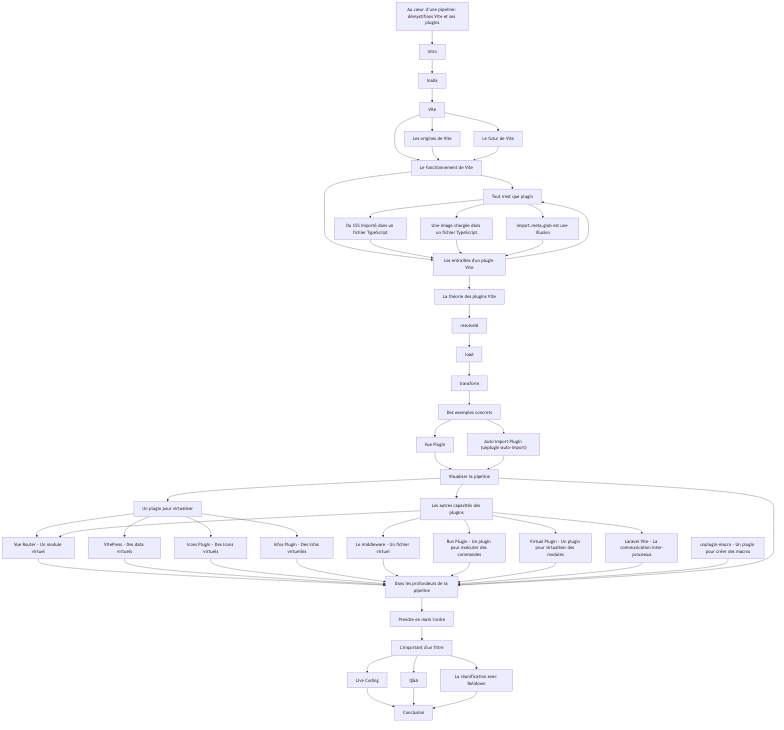
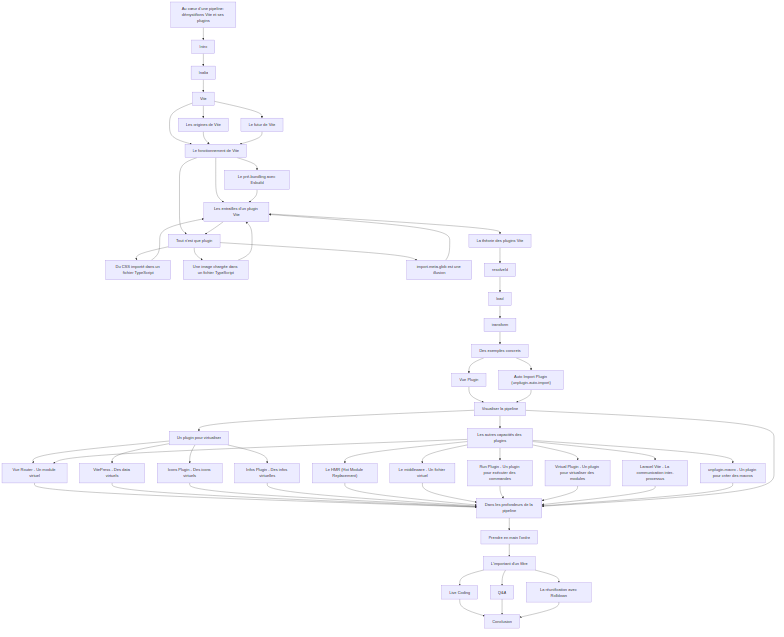
content: improve slides

diff --git a/2026-04-15/src/slides.md b/2026-04-15/src/slides.md
@@ -93,7 +93,7 @@ choices:
 
 <!--
 
-Choix:
+d'où ça vient, reprendre le contenu du documentaire de Vite, et les origines depuis le serveur pour Vue.js
 
 -->
 
@@ -101,11 +101,18 @@ Choix:
 name: Le fonctionnement de Vite
 timing: 0
 choices:
+  - Le pré-bundling avec Esbuild
   - Tout n'est que plugin
   - Les entrailles d'un plugin Vite
 ---
 
 <!--
+
+simple server web, faire un schéma avec le UA qui fait une requête, le serveur qui la reçoit, la traite et qui répond
+(faire un schéma dynamique)
+
+reprendre le système de chat IA ? en mode, on vit dans une époque de fou
+https://chatgpt.com/share/6989c859-c310-8011-9006-dc074a544fb4
 
 -->
 
@@ -117,6 +124,8 @@ choices:
 ---
 
 <!--
+
+aspect stratégique avec VoidZero
 
 -->
 
@@ -131,6 +140,8 @@ choices:
 
 <!--
 
+on l'a vu, le coeur est minimal, pour une raison simple, tout passe par des plugins, même les fonctionnalités de base (pourquoi ? parce que ça t'assure que ton système de plugin est le bon, avec suffisamment de puissance et de liberté, tu n'as pas plus d'accès qu'un third party plugin)
+
 -->
 
 ---
@@ -140,6 +151,18 @@ choices:
   - Les entrailles d'un plugin Vite
 ---
 
+<!--
+
+import './style.css'
+
+ça ne choque plus personne mais dans la vraie vie, ça ne fonctionne pas
+
+reprendre le schéma dynamique du fonctionnement de Vite et montrer ce qu'il se passe...
+
+montrer du pseudo code du plugin
+
+ -->
+
 ---
 name: Une image chargée dans un fichier TypeScript
 timing: 0
@@ -147,12 +170,37 @@ choices:
   - Les entrailles d'un plugin Vite
 ---
 
+<!--
+
+import img from './image.png'
+
+ça ne choque plus personne mais dans la vraie vie, ça ne fonctionne pas
+
+reprendre le schéma dynamique du fonctionnement de Vite et montrer ce qu'il se passe...
+montrer les différentes options parce qu'il peut automatiser
+
+ -->
+
 ---
 name: import.meta.glob est une illusion
 timing: 0
 choices:
   - Les entrailles d'un plugin Vite
 ---
+
+---
+name: Le pré-bundling avec Esbuild
+timing: 0
+choices:
+  - Les entrailles d'un plugin Vite
+---
+
+<!--
+
+Pourquoi Esbuild ? Conversion CommonJS -> ESM (indispensable pour les vieilles lib)
+Le problème des "milliers de requêtes" pour les grosses dépendances (ex: lodash-es). On fusionne tout en un seul fichier dans .vite/deps.
+
+-->
 
 ---
 name: Les entrailles d'un plugin Vite
@@ -167,15 +215,35 @@ name: La théorie des plugins Vite
 timing: 0
 ---
 
+<!--
+
+reprendre avec plus de détails le fonctionnement d'une requête dans Vite
+
+-->
+
 ---
 name: resolveId
 timing: 0
 ---
 
+<!--
+
+quand, ou et quoi
+
+-->
+
 ---
 name: load
 timing: 0
 ---
+
+<!--
+
+quand, ou et quoi
+
+donner des examples
+
+-->
 
 ---
 name: transform
@@ -183,6 +251,12 @@ timing: 0
 choices:
   - Des exemples concrets
 ---
+
+<!--
+
+quand, ou et quoi
+
+-->
 
 ---
 name: Des exemples concrets
@@ -248,11 +322,13 @@ choices:
 name: Les autres capacités des plugins
 timing: 0
 choices:
+  - Le HMR (Hot Module Replacement)
   - Le middleware - Un fichier virtuel
   - Vue Router - Un module virtuel
   - Run Plugin - Un plugin pour exécuter des commandes
   - Virtual Plugin - Un plugin pour virtualiser des modules
   - Laravel Vite - La communication inter-processus
+  - unplugin-macro - Un plugin pour créer des macros
 ---
 
 <!--
@@ -272,11 +348,30 @@ l'objectif, c'est de faire comprendre que les applications des Vite plugins sont
  -->
 
 ---
+name: Le HMR (Hot Module Replacement)
+timing: 0
+choices:
+  - Dans les profondeurs de la pipeline
+---
+
+<!--
+
+Comment Vite sait quoi mettre à jour ?
+Le hook `handleHotUpdate` pour intercepter les changements.
+Exemple : invalider un module virtuel quand un fichier sur le disque change.
+
+-->
+
+---
 name: Le middleware - Un fichier virtuel
 timing: 0
 choices:
   - Dans les profondeurs de la pipeline
 ---
+
+<!--
+
+-->
 
 ---
 name: Run Plugin - Un plugin pour exécuter des commandes
@@ -285,6 +380,10 @@ choices:
   - Dans les profondeurs de la pipeline
 ---
 
+<!--
+
+-->
+
 ---
 name: Virtual Plugin - Un plugin pour virtualiser des modules
 timing: 0
@@ -292,12 +391,20 @@ choices:
   - Dans les profondeurs de la pipeline
 ---
 
+<!--
+
+-->
+
 ---
 name: Laravel Vite - La communication inter-processus
 timing: 0
 choices:
   - Dans les profondeurs de la pipeline
 ---
+
+<!--
+
+-->
 
 ---
 name: unplugin-macro - Un plugin pour créer des macros
@@ -307,17 +414,6 @@ choices:
 ---
 
 <!--
-
-il faut des plugins qui font du resovledId, load, transform (pour montrer la pipeline)
-et on peut avoir une autre branch sur les autres capacités des plugins
-
-mettre les vue plugin et auto import plugin avant et ensuite, montrer à quoi ça ressemble plus concrètement
-
-la virtualisation, c'est une autre branche
-
-et une section sur les autres capacités des plugins (genre le plugin de run, le plugin d'info, le plugin d'icon, ...)
-
-dans les autres capacités des plugins de vite, pour chacun des plugins, parler des autres plugins
 
 -->
 
@@ -330,10 +426,22 @@ choices:
   - Les autres capacités des plugins
 ---
 
+<!--
+
+sortir vite-plugin-inspect pour voir les différents hooks, les différents plugins et les modifications successives parce que jusque là, c'est juste une boite noire
+
+ -->
+
 ---
 name: Dans les profondeurs de la pipeline
 timing: 0
 ---
+
+<!--
+
+creuser la manière dont les plugins sont appelés, dans quel ordre
+
+ -->
 
 ---
 name: Prendre en main l'ordre
@@ -343,6 +451,10 @@ timing: 0
 <!--
 
 prendre l'example du plugin de Vue, avec un pre pour bosser sur le SFC et un post pour bosser sur le js, l'output
+
+le pre, le post, ...
+
+slide relativement rapide
 
  -->
 
@@ -359,6 +471,10 @@ choices:
 
 toutes les requests passent par tous les plugins donc sans filtres, ça peut ralentir fortement
 
+donc il faut des filtres, avant c'était un if dans le plugin donc ça call le plugin, maintenant, c'est en amont, et on le voit dans les profondeurs de la pipeline
+
+createFilter de @rollup/pluginutils.
+
  -->
 
 ---
@@ -368,12 +484,37 @@ choices:
   - Conclusion
 ---
 
+<!--
+
+tricky mais on peut faire un question group pour savoir ce qu'on veut développer
+
+gestion d'un nouveau type de fichier
+gestion d'un fichier virtuel via le middleware
+gestion d'un module virtuel
+
+modification du contenu en fonction de ce qu'il y a eu avant dans la pipeline
+
+optimisation des images automatiquement
+
+Proposition : Un plugin qui transforme un fichier .txt en une string exportée (très simple à coder en 2 min : transform + extension check).
+Alternative : Un plugin "Guard" qui empêche d'importer moment ou une lib trop lourde en affichant un warning dans la console Vite via this.warn().
+
+plugin autour de l'AI ? Là, j'ai pas d'idée
+
+ -->
+
 ---
 name: Q&A
 timing: 0
 choices:
   - Conclusion
 ---
+
+<!--
+
+un long Q&A parce que même après le live coding, il peut quand même y avoir des questions
+
+ -->
 
 ---
 name: La réunification avec Rolldown
@@ -382,8 +523,15 @@ choices:
   - Conclusion
 ---
 
-<!-- ou on pose directement des questions si les gens ont beaucoup de questions -->
-<!-- et du coup pour le live coding, avoir une question sur un hook à use, une feature à dev, une thématique, .... -->
+<!--
+
+aspect technique de Rolldown dans Vite (réunification build/dev)
+
+La dualité Esbuild (Dev) / Rollup (Build).
+L'importance du hook `config` et de la propriété `apply: 'serve' | 'build'`.
+Pourquoi certains plugins ne marchent qu'en build ?
+
+-->
 
 ---
 name: Conclusion
